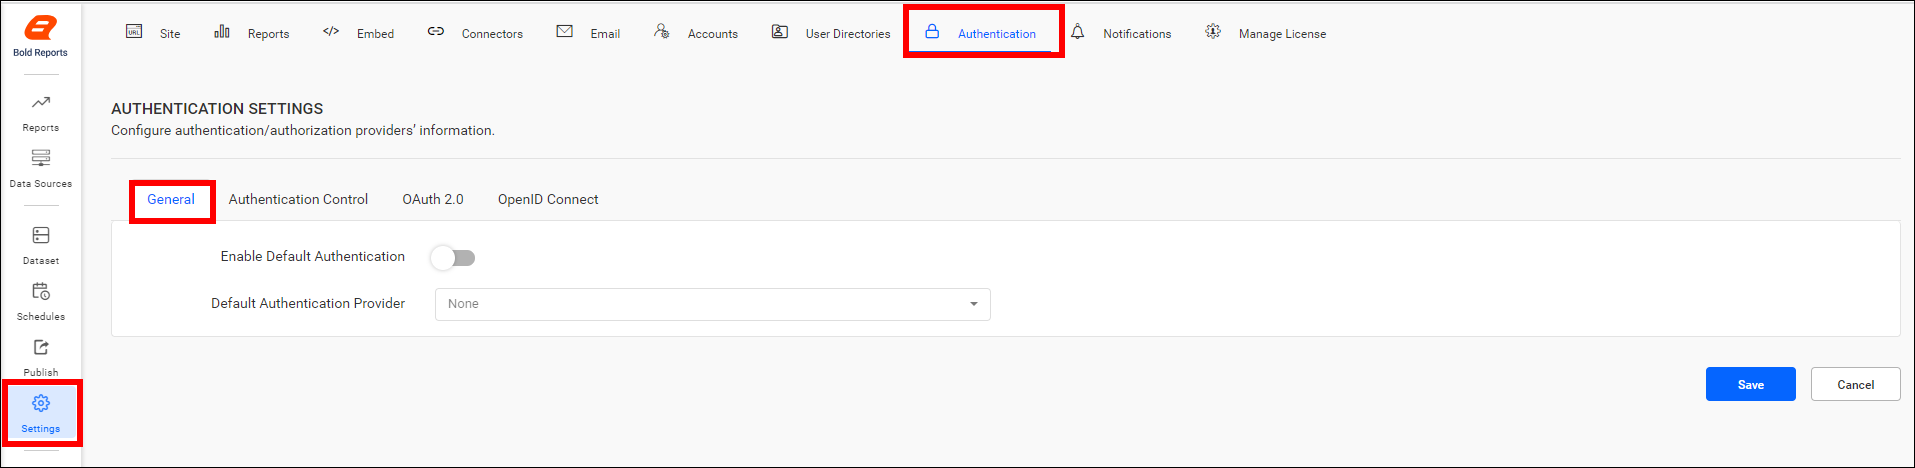
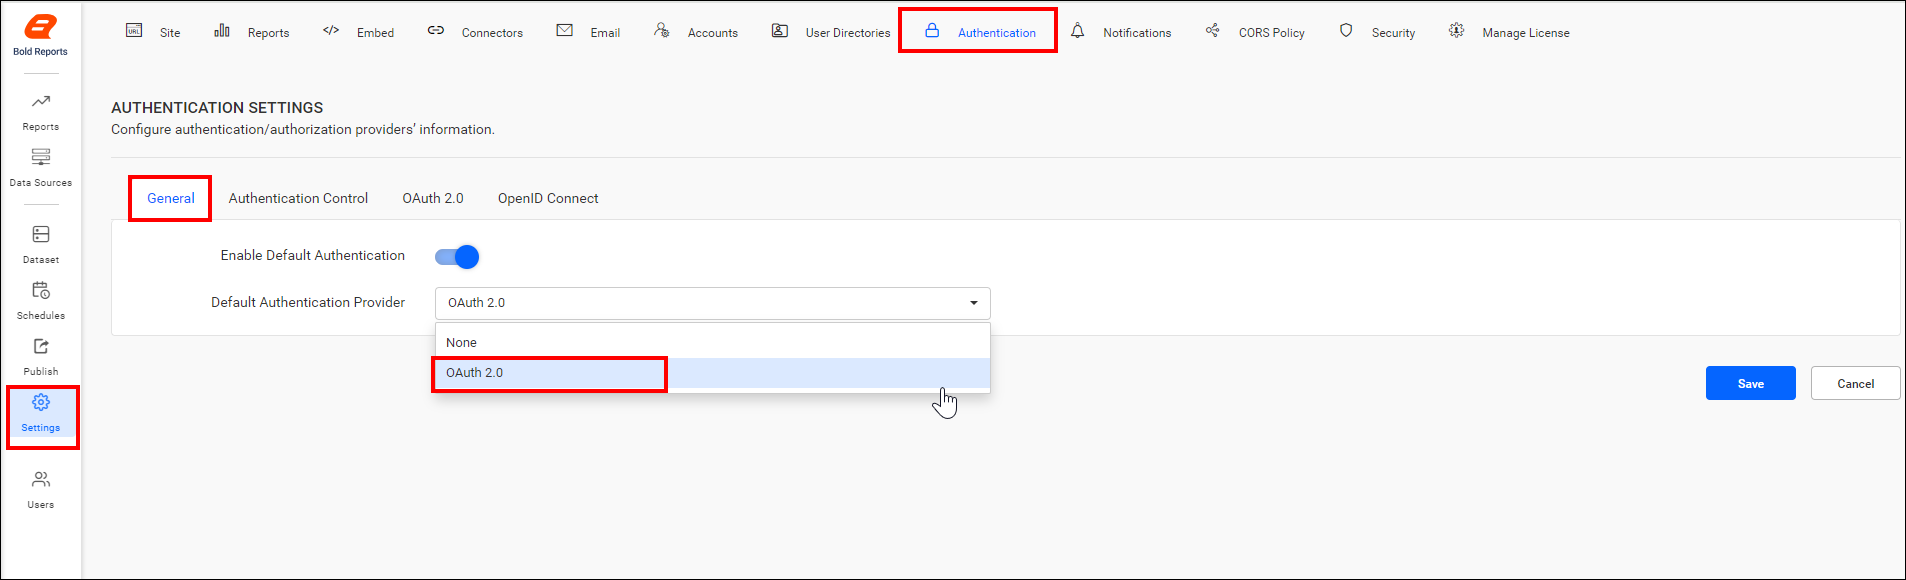
documentation(REPORT-350531): includes authentication section

diff --git a/docs/administrator-guide/authentication/single-sign-on/oauth-2.0/index.md b/docs/administrator-guide/authentication/single-sign-on/oauth-2.0/index.md
@@ -8,29 +8,31 @@ documentation: ug
 
 # Single Sign-On(SSO) with OAuth 2.0 authentication in Bold Reports
 
-The Bold Reports application can be configured with OAuth 2.0 for Single Sign-On(SSO), so that users can log in directly to the Bold Reports application after authenticating using OAuth 2.0.
+The Bold Reports application can be configured to support OAuth 2.0 for Single Sign-On(SSO), allowing users to log in directly to the Bold Reports application after authenticating using OAuth 2.0.
 
 ## Prerequisites
 
-1. An account with an OAuth 2.0 provider.
+1. An account with an OAuth 2.0 provider is required.
 
-2. Register the Bold Reports application in the OAuth 2.0 provider.
+2. Register the Bold Reports application with the OAuth 2.0 provider.
 
 ## Steps to configure OAuth 2.0 in Bold Reports
 
-1. To configure the OAuth 2.0 connection details, click the settings option in the Report Server left-side panel.
+1. Log in to Bold Reports with the admin credentials and click on the `Settings` option in the Report Server left-side panel.
 
-2. Navigate to the Authentication tab and OAuth 2.0 as shown in the following image
-![Authentication](/static/assets/on-premise/images/authentication/single-sign-on/oauth/authentication-settings.png)
+2. Navigate to the Authentication tab and select OAuth 2.0 as shown in the following image
+    ![Authentication](/static/assets/on-premise/images/authentication/single-sign-on/oauth/authentication-settings.png)
 
-3. Provide the following details in the OAuth 2.0 settings of Bold Reports application.
+   ![Oauth Authentication](/static/assets/on-premise/images/authentication/single-sign-on/oauth/oauth-authentication.png)
+
+3. Provide the following details in the OAuth 2.0 settings of the Bold Reports application.
 <table>
 <tr>
     <td>
         Provider Name
     </td>
     <td>
-        It represents the name of the authentication provider to be displayed in the login page.
+        It represents the name of the authentication provider to be displayed on the login page.
     </td>
 </tr>
 <tr>
@@ -38,7 +40,7 @@ The Bold Reports application can be configured with OAuth 2.0 for Single Sign-On
         Provider Logo
     </td>
     <td>
-        It represents the logo of the authentication provider to be displayed in the login page.
+        It represents the logo of the authentication provider to be displayed on the login page.
     </td>
 </tr>
 <tr>
@@ -46,7 +48,7 @@ The Bold Reports application can be configured with OAuth 2.0 for Single Sign-On
         Authorization Endpoint
     </td>
     <td>
-        It is the endpoint in the provider to authorize the user.
+        This is the endpoint in the provider used to authorize the user.
     </td>
 </tr>
     <tr>
@@ -63,7 +65,7 @@ The Bold Reports application can be configured with OAuth 2.0 for Single Sign-On
         Token Endpoint
     </td>
     <td>
-        It is the endpoint in the provider that generates the token.
+        It is the endpoint in the provider responsible for generating the token.
     </td>
 </tr>
 </tr>
@@ -72,7 +74,7 @@ The Bold Reports application can be configured with OAuth 2.0 for Single Sign-On
         User Information Endpoint Method
     </td>
     <td>
-        It is the endpoint in the provider used to get the user details.
+        It is the endpoint in the provider used to retrieve the user details.
     </td>
 </tr>
 </tr>
@@ -81,7 +83,7 @@ The Bold Reports application can be configured with OAuth 2.0 for Single Sign-On
         User Information Endpoint
     </td>
     <td>
-        It represents the request type to access the user information endpoint.
+        It represents the request type used to access the user information endpoint.
     </td>
 </tr>
 </tr>
@@ -90,7 +92,7 @@ The Bold Reports application can be configured with OAuth 2.0 for Single Sign-On
         Client ID
     </td>
     <td>
-        It is an unique identifier provided to each of the applications while registering in the providers.
+        It is a unique identifier provided to each application during registration with the providers.
     </td>
 </tr>
 </tr>
@@ -99,7 +101,7 @@ The Bold Reports application can be configured with OAuth 2.0 for Single Sign-On
         Client Secret
     </td>
     <td>
-        It is a secret key that is used to authorize the applications.
+        It is a secret key used to authorize the applications.
     </td>
 </tr>
 </tr>
@@ -108,7 +110,7 @@ The Bold Reports application can be configured with OAuth 2.0 for Single Sign-On
         Scopes
     </td>
     <td>
-        It is comma separated lists of identifiers that specifies the access privileges that are being requested from the provider.
+        It is a comma-separated list of identifiers that specifies the access privileges being requested from the provider.
     </td>
 </tr>
 </tr>
@@ -117,30 +119,31 @@ The Bold Reports application can be configured with OAuth 2.0 for Single Sign-On
         Email
     </td>
     <td>
-        This must be the email of an admin account of the providers.
+        This shoul be the email address of an admin account of the provider.
     </td>
 </tr>
 </table>
 
    ![Oauth Authentication](/static/assets/on-premise/images/authentication/single-sign-on/oauth/oauth-authentication.png)
+    ![Oauth-User-data](/static/assets/on-premise/images/authentication/single-sign-on/oauth/oauth-user-data.png)
 
-The previous mentioned similar steps are applicable to configure the OAuth 2.0 in User Management Server by logging into the URL `{Bold Reports URL}/ums/administration/authentication` with admin credential.
+The previously mentioned similar steps are applicable to configure OAuth 2.0 in the User Management Server by logging into the URL `{Bold Reports URL}/ums/administration/authentication` with admin credential.
 
-Following are the list of few OAuth 2.0 providers and that explains how to connect with the Bold Reports application.
+Here is a list of several OAuth 2.0 providers, along with explanations of how to connect them to the Bold Reports application.
 
 * [Amazon Cognito](./../oauth-2.0/amazon-cognito/)
 * [Auth0](./../oauth-2.0/auth0/)
 * [Okta](./../oauth-2.0/okta/)
 * [OneLogin](./../oauth-2.0/onelogin/)
 
-The OAuth 2.0 is provided in both the Bold Reports sites and User Management Server. OAuth 2.0 can be handled for each sites individually in the settings page by disabling the option as in the following screenshot.
+OAuth 2.0 functionality is available in both Bold Reports sites and the User Management Server. It can be managed for each site individually on the settings page by disabling the option, as illustrated in the following screenshot.
 ![Oauth Group Setting](/static/assets/on-premise/images/authentication/single-sign-on/oauth/enableoauth.png)
 
 ## Set OAuth 2.0 as Default Authentication
 
-OAuth 2.0 can be set as default authentication when [OAuth 2.0](#steps-to-configure-oauth-20-in-bold-reports) settings is enabled and saved. Follow the below steps.
-1. In settings page, click on Authentication tab and select General.
-2. Enable the option **Enable Default Authentication** and select the **OAuth 2.0** in default authentication provider as in the following screenshot.
+OAuth 2.0 can be set as the default authentication method when [OAuth 2.0](#steps-to-configure-oauth-20-in-bold-reports) settings is enabled and saved. Follow the below steps.
+1. On the settings page, click on the Authentication tab and select General.
+2. Enable the option **Enable Default Authentication** and select **OAuth 2.0** as the default authentication provider, as shown in the following screenshot.
 ![Oauth Default Setting](/static/assets/on-premise/images/authentication/single-sign-on/oauth/oauth-default-authentication.png)
 
 ### Disabling OAuth 2.0 Settings
@@ -151,5 +154,5 @@ When OAuth 2.0 is set as default authentication and try to disable the [OAuth 2.
 
 ### Bypassing OAuth 2.0 Authentication
 
-Use the below custom login URL to login as normal user that is not from OAuth, when [OAuth 2.0 default authentication](#set-oauth-20-as-default-authentication) is enabled.
+Use the following custom login URL to log in as a normal user who is not using OAuth, when [OAuth 2.0 default authentication](#set-oauth-20-as-default-authentication) is enabled.
 >**`{Bold Reports URL}/reporting/site/{tenant-name}/login?use_default_authentication=false`**

diff --git a/docs/administrator-guide/authentication/single-sign-on/azure-active-directory.md b/docs/administrator-guide/authentication/single-sign-on/azure-active-directory.md
@@ -8,43 +8,43 @@ documentation: ug
 
 # How to set up Azure Active Directory for SSO authentication in Bold Reports
 
-This section explains how to perform Single Sign-On (SSO) for users in the Azure Active Directory with Bold Reports application.
+This section explains how to perform Single Sign-On (SSO) for users in Azure Active Directory with the Bold Reports application.
 
-> NOTE: This configuration has to been done in [Azure Portal](https://portal.azure.com/#home).
+> **NOTE:** This configuration has to been done in the [Azure Portal](https://portal.azure.com/#home).
 
 ## Prerequisites
 
-* An Azure account with Active Directory support.
-* Install the Bold Reports application and log in with an administrator account.
+* An Azure account with Active Directory support is required.
+* Install the Bold Reports application and log in using an administrator account.
 
 ## Steps to set up Bold Reports to perform Single Sign-On
 
-1. Login to the URL `{Bold Reports URL}/ums/administration/sso?view=azure-ad-settings` using the admin credential.
+1. Login to the URL `{Bold Reports URL}/ums/administration/sso?view=azure-ad-settings` using the admin credentials.
 
-2. Click `Settings` in the left menu.
+2. Click on `Settings` in the left menu.
 
     ![application-settings](/static/assets/on-premise/images/authentication/single-sign-on/azure-active-directory/sso-settings.png)
 
-3. Click `Authentication`, and then go to the `Azure AD` tab and save the following fields in UMS settings:
+3. Click `Authentication`, then navigate to the `Azure AD` tab and save the following fields in UMS settings:
 
     ![azure-ad-settings](/static/assets/on-premise/images/authentication/single-sign-on/azure-active-directory/enable-sso.png)
 
-    > **NOTE:** Refer to this following link to register the [Bold Reports web application](https://help.boldreports.com/enterprise-reporting/administrator-guide/how-to/set-up-azure-active-directory/#steps-to-register-bold-reports-on-premise-application-in-azure-active-directory) and [Bold Reports mobile application](https://help.boldreports.com/enterprise-reporting/administrator-guide/how-to/set-up-azure-active-directory/#steps-to-register-bold-reports-on-premise-mobile-application-in-azure-active-directory) in Azure Active Directory.
+    > **NOTE:** Refer to the following link to register the [Bold Reports web application](https://help.boldreports.com/enterprise-reporting/administrator-guide/how-to/set-up-azure-active-directory/#steps-to-register-bold-reports-on-premise-application-in-azure-active-directory) and [Bold Reports mobile application](https://help.boldreports.com/enterprise-reporting/administrator-guide/how-to/set-up-azure-active-directory/#steps-to-register-bold-reports-on-premise-mobile-application-in-azure-active-directory) in Azure Active Directory.
 
-    ***Application Id:** Go to the registered application and click the `Overview`, and then copy the `Application Id` and paste it.
+    ***Application Id:** Navigate to the registered application, click on `Overview`, and then copy the `Application Id` to paste it.
 
     ![application-id](/static/assets/on-premise/images/authentication/single-sign-on/azure-active-directory/app-id.png)
 
-    ***Application Id URI:** Go to the registered application and click the `Overview`, and then copy the `Application Id URI` and paste it.
+    ***Application Id URI:** Navigate to the registered application, click on `Overview`, and then copy the `Application Id URI` to paste it.
 
     ![application-id-uri](/static/assets/on-premise/images/authentication/single-sign-on/azure-active-directory/app-id-uri.png)
 
-    ***Tenant Name:** Navigate to the created `Azure Active Directory` and copy the domain name from the `Overview`.
+    ***Tenant Name:** Navigate to the created `Azure Active Directory` and copy the domain name from the `Overview` section.
 
     ![tenant-name](/static/assets/on-premise/images/authentication/single-sign-on/azure-active-directory/tenant-name.png)
 
-    ***Mobile App Client ID:** Go to the registered application for the Bold Reports mobile application. Copy the `Application ID` and paste it.
+    ***Mobile App Client ID:** Navigate to the registered application for the Bold Reports mobile application. Copy the `Application ID` and paste it.
 
     ![mobile-app-id](/static/assets/on-premise/images/authentication/single-sign-on/azure-active-directory/mobile-app-id.png)
 
-4. Now, click save. After the values are saved, the application will be `Restarted` to apply the settings.
+4. Now, click `save`. After the values are saved, the application will be restarted to apply the settings.

diff --git a/docs/administrator-guide/authentication/single-sign-on/oauth-2.0/onelogin.md b/docs/administrator-guide/authentication/single-sign-on/oauth-2.0/onelogin.md
@@ -8,46 +8,46 @@ documentation: ug
 
 # Single Sign-On(SSO) with OneLogin authentication in Bold Reports
 
-Users can be added to the Bold Reports application using the OneLogin provider. By importing them, you can share the reports and email exported reports with them.
+Users can be added to the Bold Reports application using the OneLogin provider. Once imported, you can share reports and email exported reports with them.
 
 ## How to register the Bold Reports application in OneLogin
 
-This section explains how to perform Single Sign-On(SSO) for users in OneLogin with Bold Reports application.
+This section explains how to perform Single Sign-On(SSO) for users in OneLogin with the Bold Reports application.
 
->This configuration has to be done in OneLogin website.
+>**Note:** This configuration must be to be done on the OneLogin website.
 
 ### Prerequisites
 
-* An admin account in OneLogin.
+* An admin account in OneLogin is required.
 
-* Install Bold Reports application.
+* Install the Bold Reports application.
 
 #### Steps to register the Bold Reports application
 
-1. Login to the OneLogin website with the admin account.
+1. Log in to the OneLogin website with the admin account.
 
 2. Click on `Applications` in the header menu.
 
    ![Application page](/static/assets/on-premise/images/authentication/single-sign-on/oauth/onelogin/oneloginadmin.png)
 
-3. Click on `Add App` button.
+3. Click on the `Add App` button.
    ![Add Application page](/static/assets/on-premise/images/authentication/single-sign-on/oauth/onelogin/oneloginaddapp.png)
 
-4. Type the word `OpenId Connect`or `oidc` in the search box and click on the result.
+4. Type `OpenId Connect`or `oidc` in the search box and click on the result.
 
     ![Openidconnect](/static/assets/on-premise/images/authentication/single-sign-on/oauth/onelogin/openidconnect.png)
 
-5. Type the application name and click on `Add App`.
+5. Enter the application name and click on `Add App`.
 
-6. Save the application name in the `Display Name`.
+6. Save the application name in the `Display Name` field.
 
    ![Applicationname](/static/assets/on-premise/images/authentication/single-sign-on/oauth/onelogin/oneloginname.png)
 
-7. Click the `Configuration` tab and save the `Redirect URI's` and `Login Url`. For Bold Reports mobile application, use the `Mobile App Redirect URI` and use the `Redirect URI` for the web application.
+7. Click the `Configuration` tab and save the `Redirect URI's` and `Login Url`. For Bold Reports mobile application, use the `Mobile App Redirect URI`, and for the web application, use the `Redirect URI`.
 
    ![Redirect URI](/static/assets/on-premise/images/authentication/single-sign-on/oauth/onelogin/onelogin-save-redirect-uri.png)
 
-8. The `Redirect URI` and `Login URL` is found under the `OpenID Connect` settings of your Bold Reports application as in the following screenshot.
+8. The `Redirect URI` and `Login URL` can be found under the `OpenID Connect` settings of your Bold Reports application, as shown in the following screenshot.
 
    ![Redirecturi in setting](/static/assets/on-premise/images/authentication/single-sign-on/oauth/onelogin/login-redirect-uri.png)
 

diff --git a/docs/administrator-guide/authentication/single-sign-on/office-365.md b/docs/administrator-guide/authentication/single-sign-on/office-365.md
@@ -8,18 +8,18 @@ documentation: ug
 
 # Office 365 for authentication
 
-The Bold Reports On-Premise supports importing Azure Active Directory users and allows them to do Single Sign-On (federated identity) into the Bold Reports On-Premise using their credentials. You can share or email the reports with Office 365 users and groups. The Office 365 uses the cloud-based user authentication service Azure Active Directory to manage users. So, the Report Server supports the Office 365 users and groups to be imported and sign in to it.
+Bold Reports On-Premise supports importing Azure Active Directory users, enabling them to utilize Single Sign-On (federated identity) within the Bold Reports On-Premise using their credentials. Reports can be shared or emailed with Office 365 users and groups. Office 365 utilizes Azure Active Directory, a cloud-based user authentication service, for managing users. As a result, the Report Server seamlessly enables the importation of Office 365 users and groups, allowing them to sign in effortlessly.
 
-The Report Server supports the following functionalities from the Azure Active Directory:
+The Bold Reports Server supports the following functionalities from Azure Active Directory:
 
-* [Setup Azure Active Directory](./../../../manage-app-settings/azure-active-directory/) settings with the  Bold Reports On-Premise.
+* [Set up Azure Active Directory](./../../../manage-app-settings/azure-active-directory/) settings with Bold Reports On-Premise.
 
-* [Import users](./../../../manage-users/users/import-users/import-azure-active-directory-users/) from the Azure Active Directory.
+* [Import users](./../../../manage-users/users/import-users/import-azure-active-directory-users/) from Azure Active Directory.
 
-* [Import groups](./../../../manage-users/groups/import-groups/import-azure-active-directory-groups/) from the Active Directory.
+* [Import groups](./../../../manage-users/groups/import-groups/import-azure-active-directory-groups/) from Active Directory.
 
-* [Synchronize user details](./../../../manage-users/users/synchronize/synchronize-azure-active-directory-users/) with the Azure Active Directory.
+* [Synchronize user details](./../../../manage-users/users/synchronize/synchronize-azure-active-directory-users/) with Azure Active Directory.
 
-* [Synchronize group details and its users](./../../../manage-users/groups/synchronize/synchronize-azure-active-directory-groups/) with the Azure Active Directory.
+* [Synchronize group details and its users](./../../../manage-users/groups/synchronize/synchronize-azure-active-directory-groups/) with Azure Active Directory.
 
-* [Schedule the synchronization of user and groups](./../../../manage-app-settings/synchronization-schedule/azure-active-directory-synchronization-schedule/) between the Bold Reports On-Premise and the Azure Active Directory.
+* [Schedule the synchronization of users and groups](./../../../manage-app-settings/synchronization-schedule/azure-active-directory-synchronization-schedule/) between Bold Reports On-Premise and Azure Active Directory.

diff --git a/docs/administrator-guide/authentication/single-sign-on/overview.md b/docs/administrator-guide/authentication/single-sign-on/overview.md
@@ -1,0 +1,21 @@
+---
+layout: post
+title: Overview of Single Sign-On Authentication in Bold Reports
+description: Discover the simplicity and security of Single Sign-On Authentication within Bold Reports, ensuring streamlined access and enhanced protection for users.
+platform: Report-platform
+documentation: ug
+---
+
+# What is Single sign-on
+
+Single sign-on (SSO) is an authentication method that allows users to securely authenticate with multiple applications and websites using just one set of credentials. This eliminates the need for users to log in separately to different applications. With a single security token (a username and password pair), you can manage user access to multiple systems, apps, and resources. It has revolutionized the traditional login process, reducing the time-consuming need to log in to each application with different passwords.
+
+## Single Sign-On Supported in Bold Reports
+
+Bold Reports offers Single Sign-On (SSO) support for the following login providers:
+
+* [Configure SSO with ADFS](./../../../authentication/single-sign-on/azure-active-directory/)
+
+* [Configure SSO with OAuth 2.0](./../../../authentication/single-sign-on/oauth-2.0/)
+
+* [Configure SSO with OpenID Connect](./../../../authentication/single-sign-on/openid-connect/)

diff --git a/docs/administrator-guide/authentication/single-sign-on/index.md b/docs/administrator-guide/authentication/single-sign-on/index.md
@@ -8,10 +8,16 @@ documentation: ug
 
 # Single Sign-On
 
-Single Sign-On (SSO) is an authentication scheme that allows you to login into the multiple applications using single id and password. Single Sign-On(SSO) for Bold Reports can be configured with external authentication providers like WS-Federation (ADFS), OAuth 2.0 and Open ID identity specifications.
+This section explains how to configure Azure Active Directory for Single Sign-On (SSO) in the Bold Reports server.
 
-You can refer more details from the following sections to configure Single Sign-On for Bold Reports:
+You can find more details on configuring Single Sign-On for Bold Reports and explore it in detail here.
+
+* [Overview](./../single-sign-on/overview/)
+
+* [Office 365 support](./../single-sign-on/office-365/)
+
+* [Azure Active Directory](./../single-sign-on/azure-active-directory/)
 
 * [OAuth 2.0 - OneLogin in Bold Reports](./../single-sign-on/oauth-2.0/onelogin/)
 
-* [Azure Active Directory](./../single-sign-on/azure-active-directory/)
+* [OpenID Connect](./../single-sign-on/openid-connect/)

diff --git a/docs/administrator-guide/authentication/index.md b/docs/administrator-guide/authentication/index.md
@@ -8,6 +8,6 @@ documentation: ug
 
 # Authentication settings
 
-You can configure Single Sign-On(SSO) in Bold Reports by using Authentication Settings. You can refer more details from the following sections.
+You can configure Single Sign-On(SSO) in Bold Reports using Authentication Settings. For additional details, please refer to the following section.
 
 [Single Sign-On](./../authentication/single-sign-on/)
